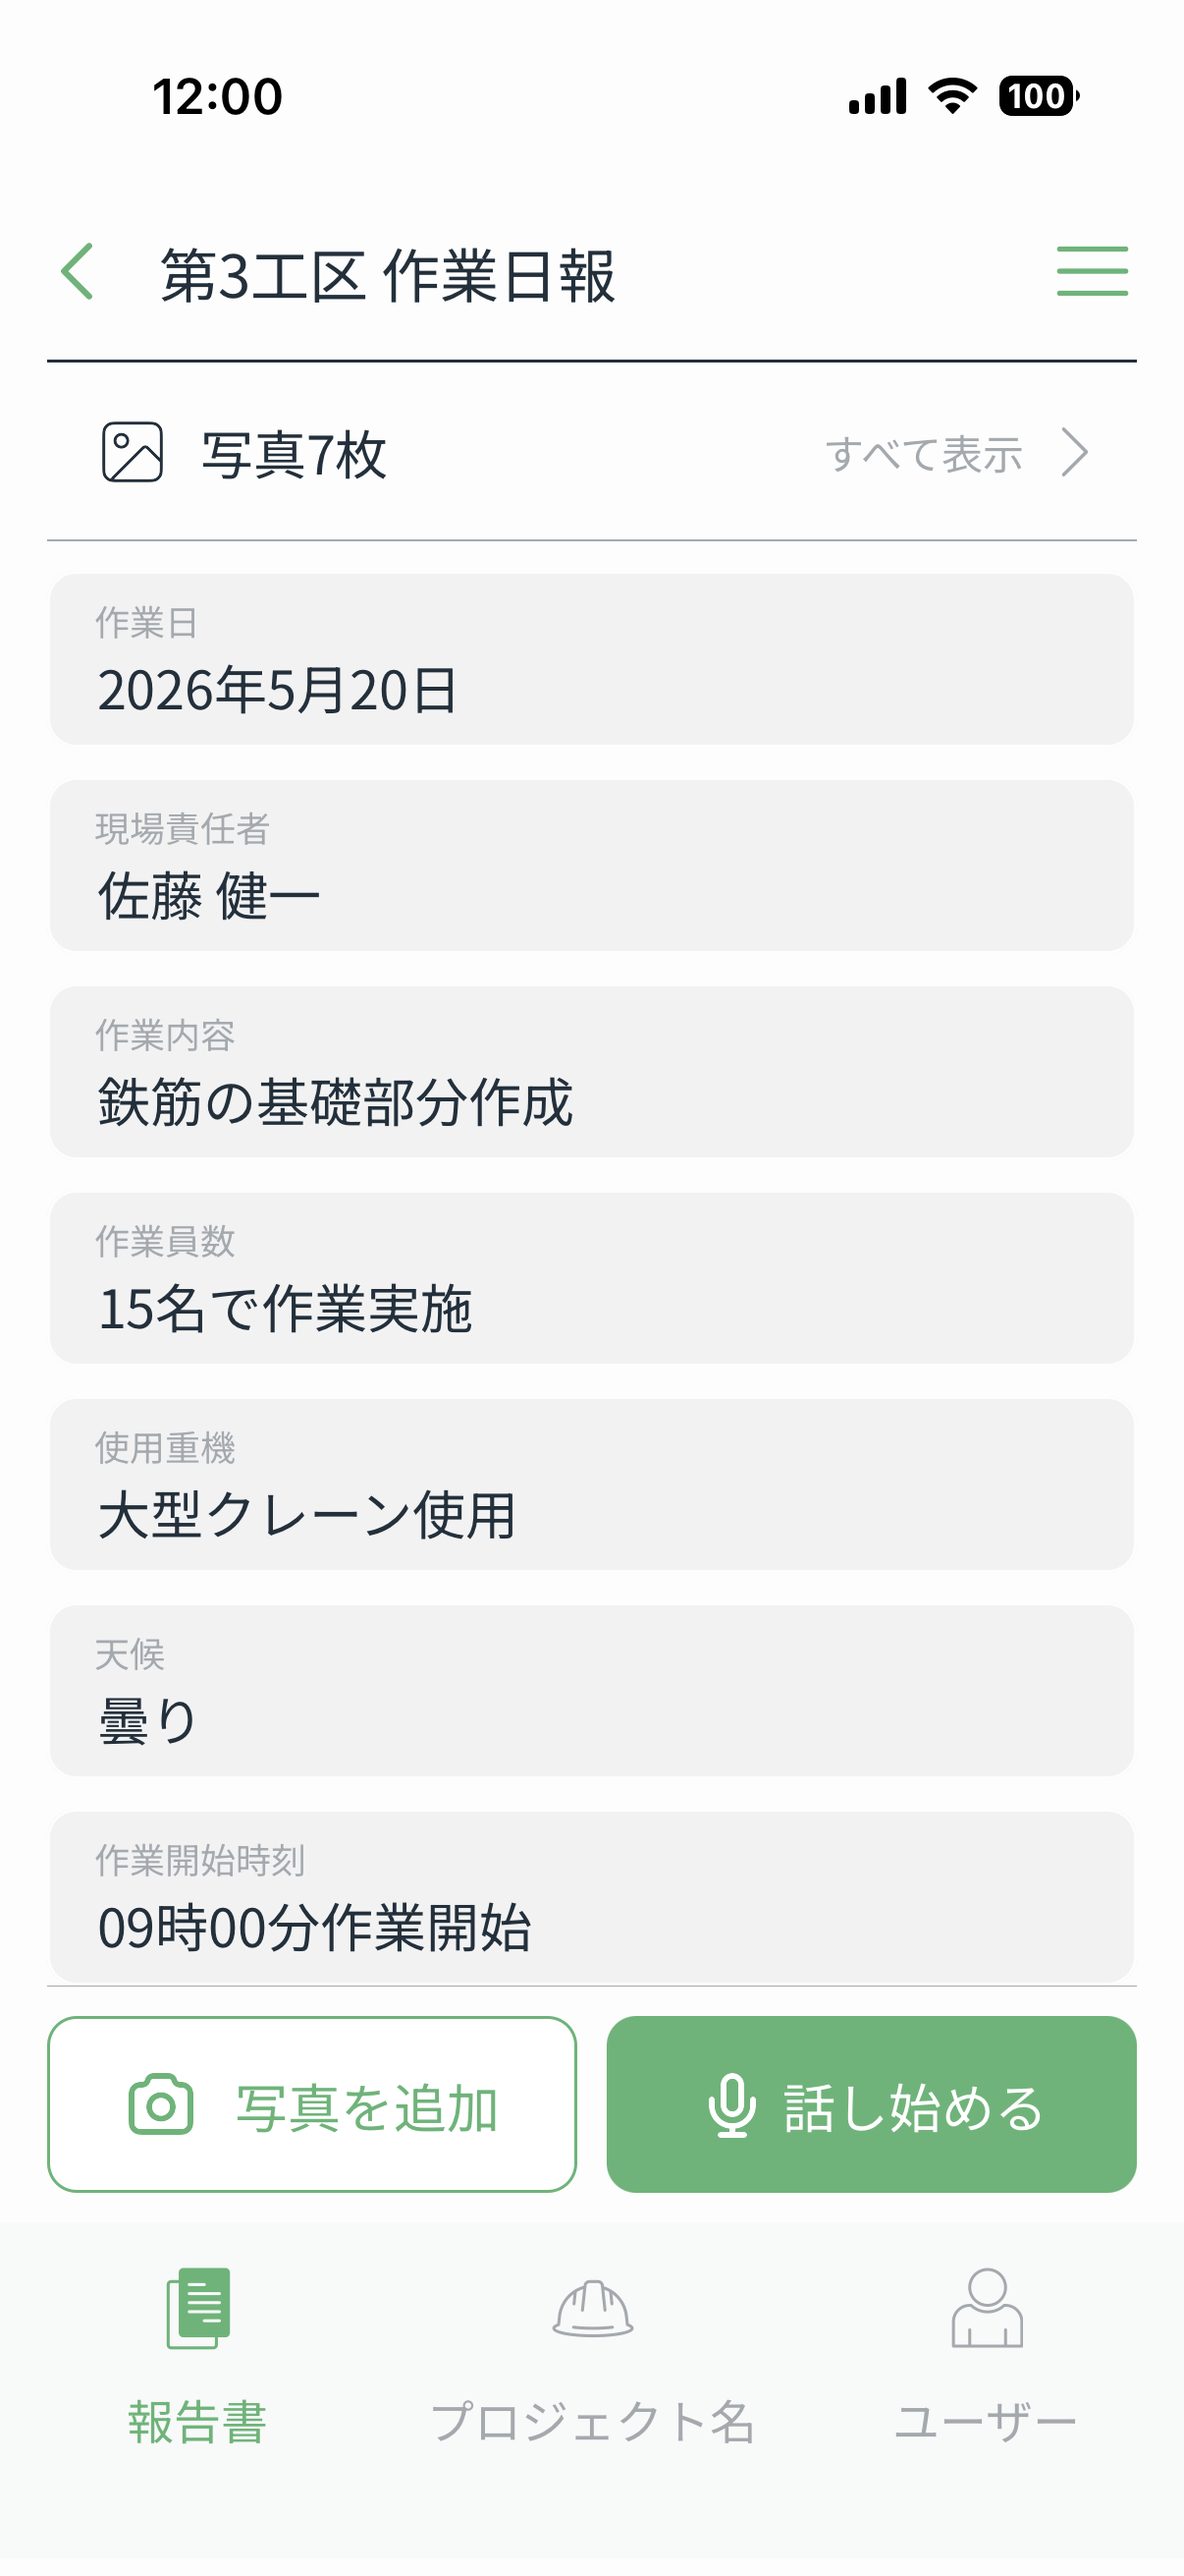
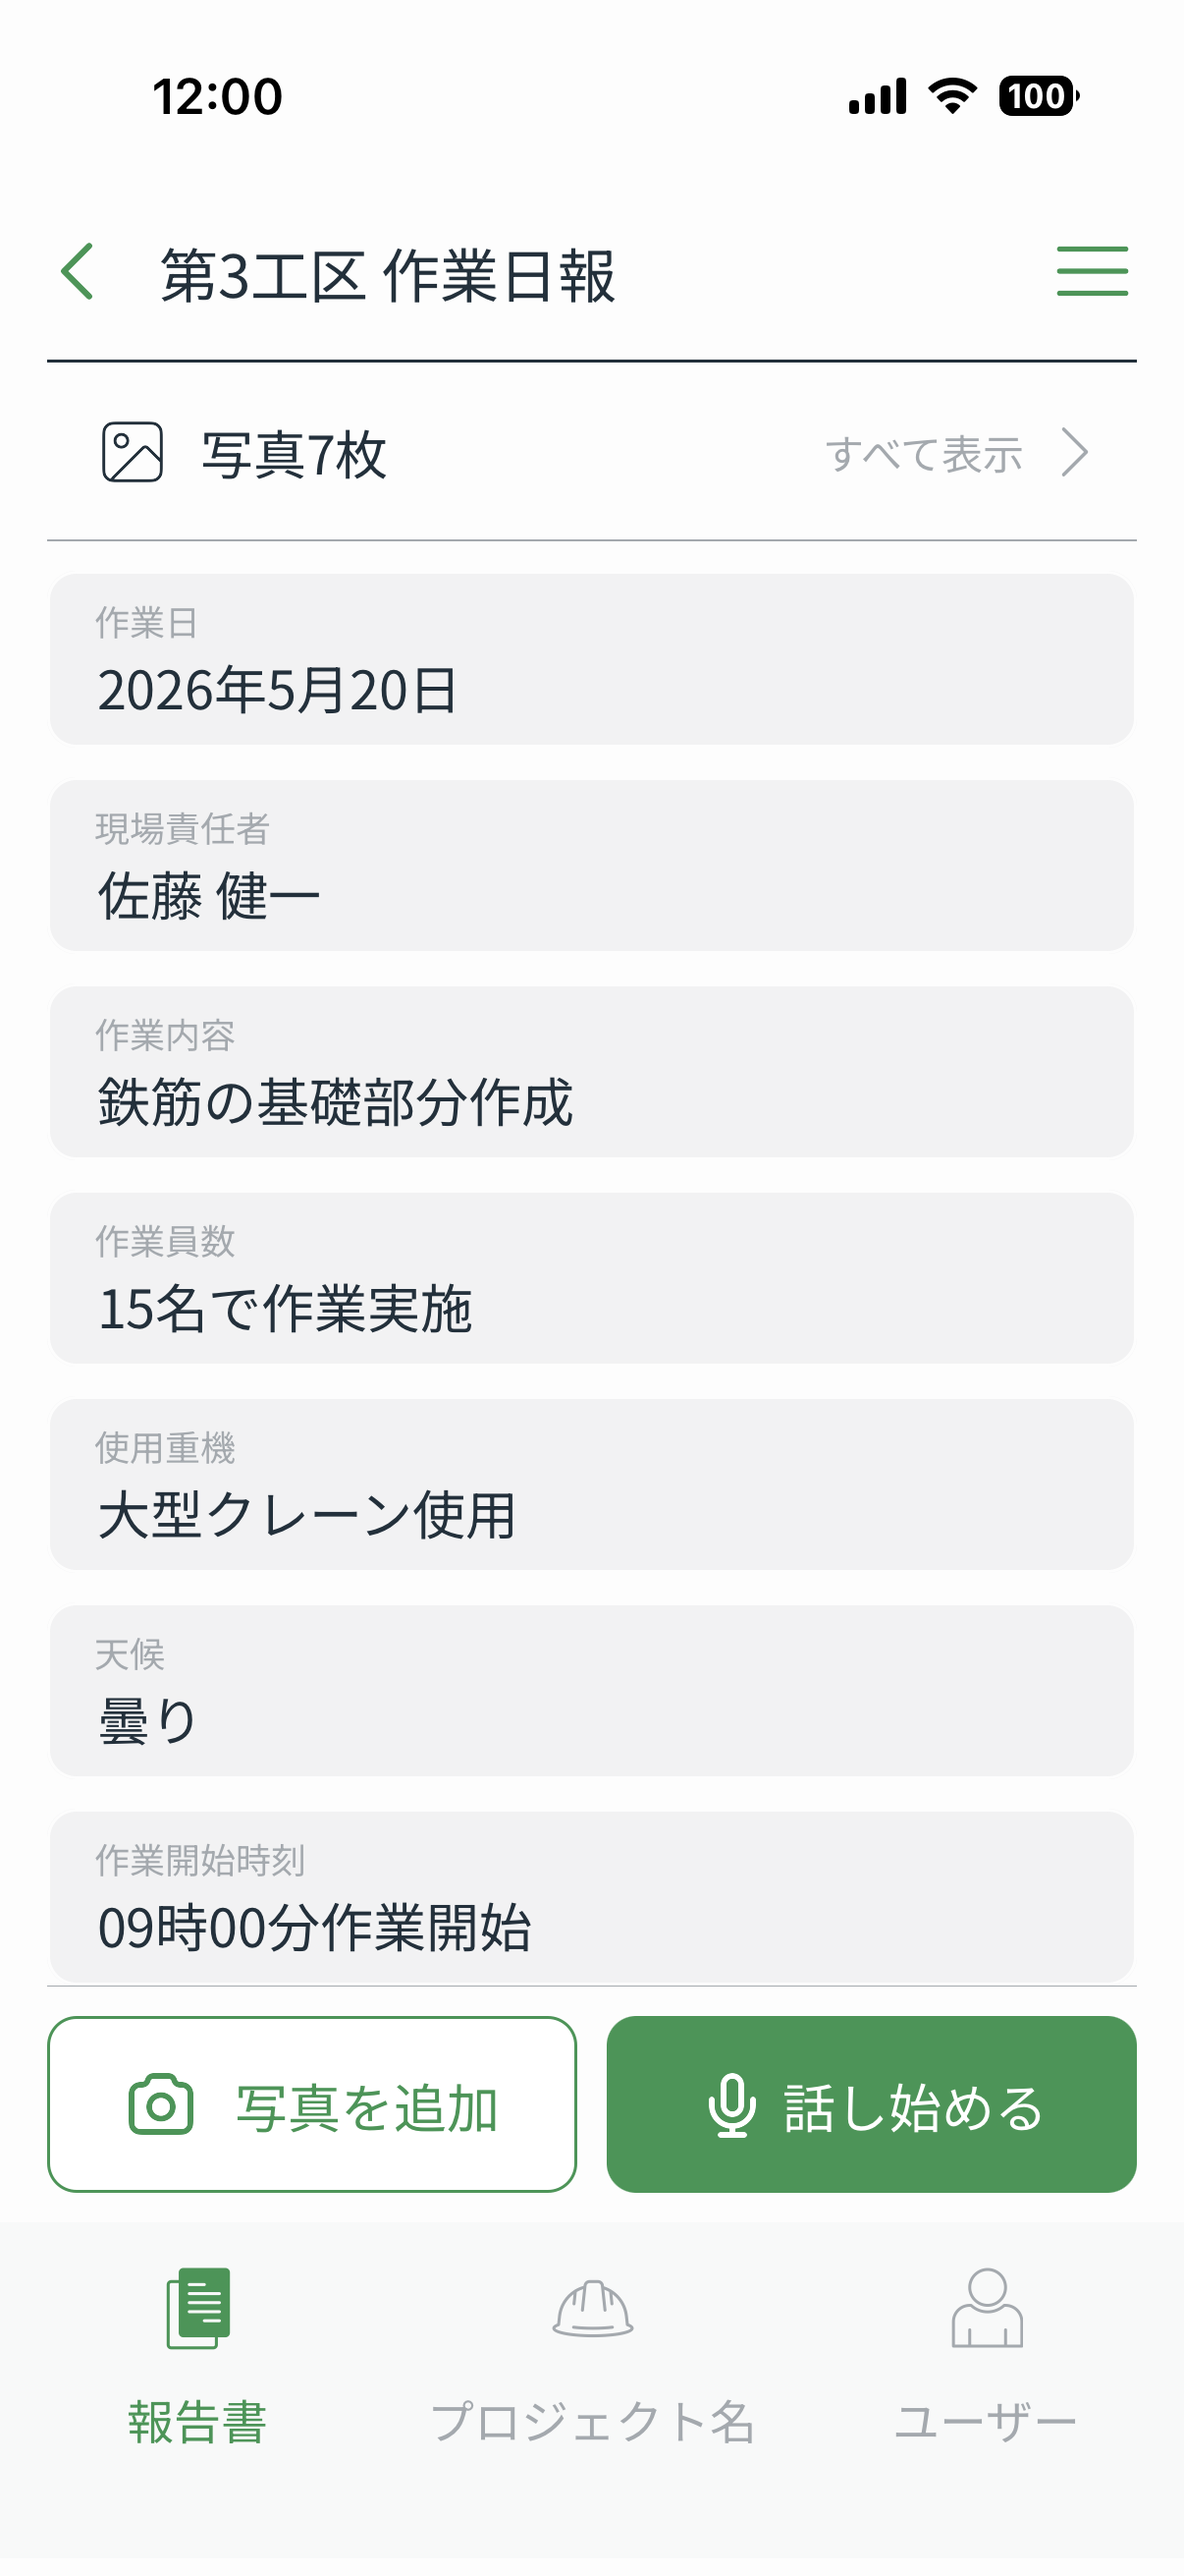
wip

diff --git a/app/(auth)/signup/SignupModal.tsx b/app/(auth)/signup/SignupModal.tsx
@@ -4,6 +4,7 @@ import { CreateCompanyRequest } from "@/types/companies";
 import { useTranslation } from "react-i18next";
 import { Input } from "@/app/ui/Input/Input";
 import Modal from "@/app/ui/Modal";
+import { emailRegex } from "@/lib/constants";
 
 interface SignupModalProps {
   isOpen: boolean;
@@ -18,6 +19,7 @@ const SignupModal: FC<SignupModalProps> = ({
 }) => {
   const [name, setName] = useState("");
   const [email, setEmail] = useState("");
+  const [isEmailInvalid, setIsEmailInvalid] = useState(false);
   const { t } = useTranslation();
 
   const reset = () => {
@@ -42,13 +44,22 @@ const SignupModal: FC<SignupModalProps> = ({
         <Input
           value={email}
           placeholder={t("company_email")}
-          onChange={setEmail}
+          onChange={(e) => {
+            setEmail(e);
+            setIsEmailInvalid(false);
+          }}
+          error={isEmailInvalid}
         />
       </div>
       <Button
         disabled={!name || !email}
         label={t("send_registration_link")}
         onClick={() => {
+          if (!emailRegex.test(email)) {
+            setIsEmailInvalid(true);
+            return;
+          }
+
           onSubmit({
             name,
             manager_email: email,

diff --git a/app/(auth)/page.tsx b/app/(auth)/page.tsx
@@ -578,7 +578,6 @@ export default function LandingPage() {
               title: t("sign_up_email_sent"),
               subtitle: t("sign_up_email_sent_description"),
             });
-
           } catch (err) {
             setLoading(false);
             setShowSignup(false);
